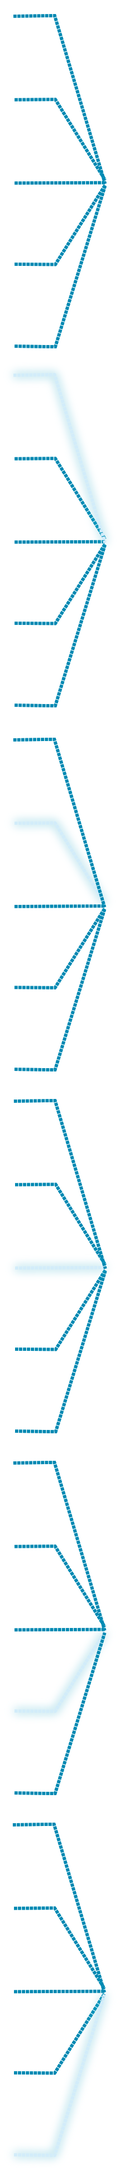
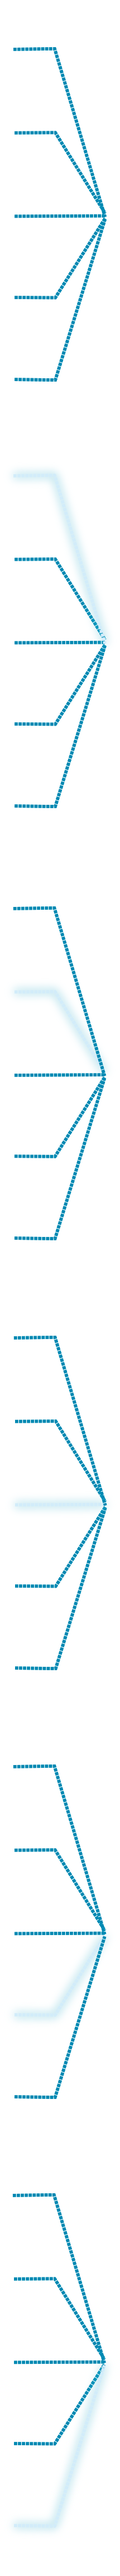
新トピックス更新
git-svn-id: file:///ocw/svn/design-rep/ocw-design/branches/3.0u@9012 0cb0e2da-76ef-49b7-9531-4241df5af7e9

diff --git a/js/noDisplay.js b/js/noDisplay.js
@@ -98,15 +98,15 @@ $(document).ready(function(){
 
         switch (index) {
             case 0:
-                $("#articles_title").css("background-position", "0 top"); break;
+                $("#articles_title").css("background-position", "290px 765px"); break;
             case 1:
-                $("#articles_title").css("background-position", ""); break;
+                $("#articles_title").css("background-position", "290px 1530px"); break;
             case 2:
-                $("#articles_title").css("background-position", ""); break;
+                $("#articles_title").css("background-position", "290px 2295px"); break;
             case 3:
-                $("#articles_title").css("background-position", ""); break;
+                $("#articles_title").css("background-position", "290px 3060px"); break;
             case 4:
-                $("#articles_title").css("background-position", "0 bottom"); break;
+                $("#articles_title").css("background-position", "290px 3825px"); break;
         }
     
 

diff --git a/css/topics/7.css b/css/topics/7.css
@@ -14,7 +14,7 @@ div#tp_default{
     padding: 0 0 0 45px;
     background-image: url("../../images/ja/topics7/connect.png");
     background-repeat: no-repeat;
-    background-position: 290px 55px;
+    background-position: 290px 0;
 }
 
 nav{
